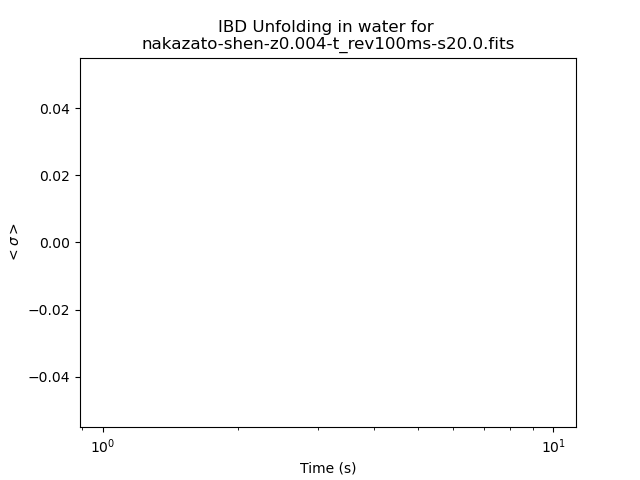
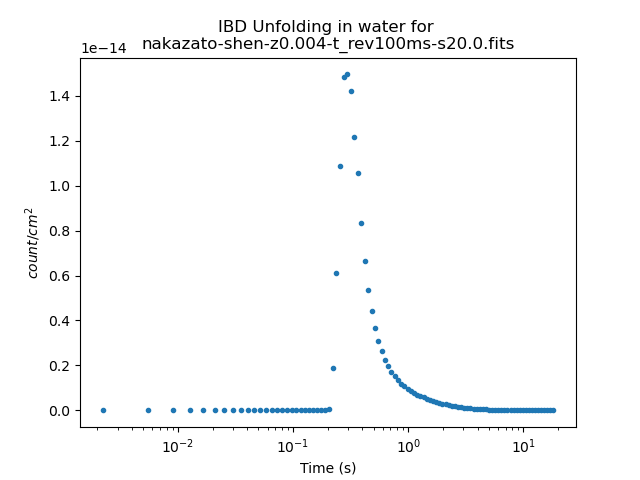
Unfolding, but the output units are 4 orders too small

diff --git a/meta_analysis.py b/meta_analysis.py
@@ -209,7 +209,7 @@ def process_detector(config: t.MetaAnalysisConfig, set_no: int, detector: str) -
         # ok now I see the problem: the flux and the actual detector data are binned differently
         # the flux data has smaller energy bin width so the dE_v isn't the same
         MeV = 1.60218e-6 * u.erg
-        flux_energy_spectra = np.linspace(0, 100, 501) * MeV  # 1MeV
+        flux_energy_spectra = np.linspace(0, 100, 501) #* MeV  # 1MeV
 
         # now we'll have to go through each time bin and find flux-avg-cxn
         phi_est = np.zeros_like(np.transpose(ibd_channel))
@@ -225,8 +225,8 @@ def process_detector(config: t.MetaAnalysisConfig, set_no: int, detector: str) -
                     l_data[t_bin_no]['ibd'],
                     l_data[t_bin_no]['Energy'], # need the 1000 so that way we go from GeV to MeV
                     flux_l_data[t_bin_no][4], # 4 should be aNuE
-                    flux_energy_spectra.value, # is constant across time
-                    show=True
+                    flux_energy_spectra, # is constant across time
+                    show=False
                 )[0]
             )/flux_anue[t_bin_no]
             phi_est[t_bin_no] = ibd_channel[t_bin_no]/(n_targets_water*flux_averaged_xscn_for_slice)
@@ -234,7 +234,7 @@ def process_detector(config: t.MetaAnalysisConfig, set_no: int, detector: str) -
         fx_plot, fx_axes = plt.subplots(1,1)
         fx_axes.plot(time_bins_x_axis, phi_est, linestyle='None', marker='.')
         fx_axes.set_xlabel('Time (s)')
-        fx_axes.set_ylabel(r'$<\sigma>$')
+        fx_axes.set_ylabel(r'$count/cm^2$')
         fx_axes.set_title(f'IBD Unfolding in water for \n{config.model_file_paths[set_no].split("/")[-1]}')
         fx_axes.set_xscale('log')
         fx_plot.savefig('./ibd_unfold.png')
